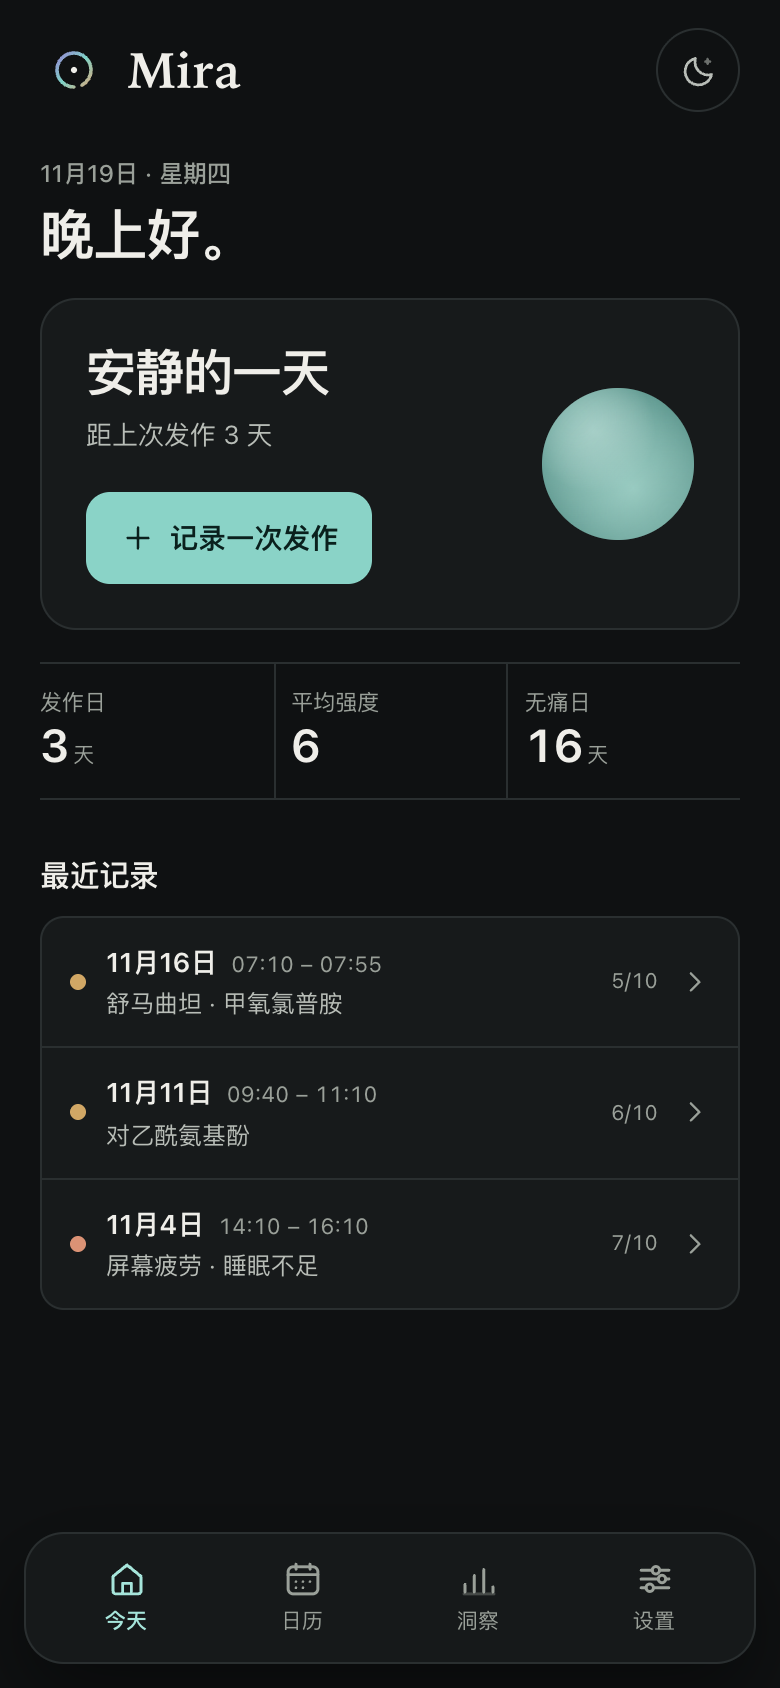
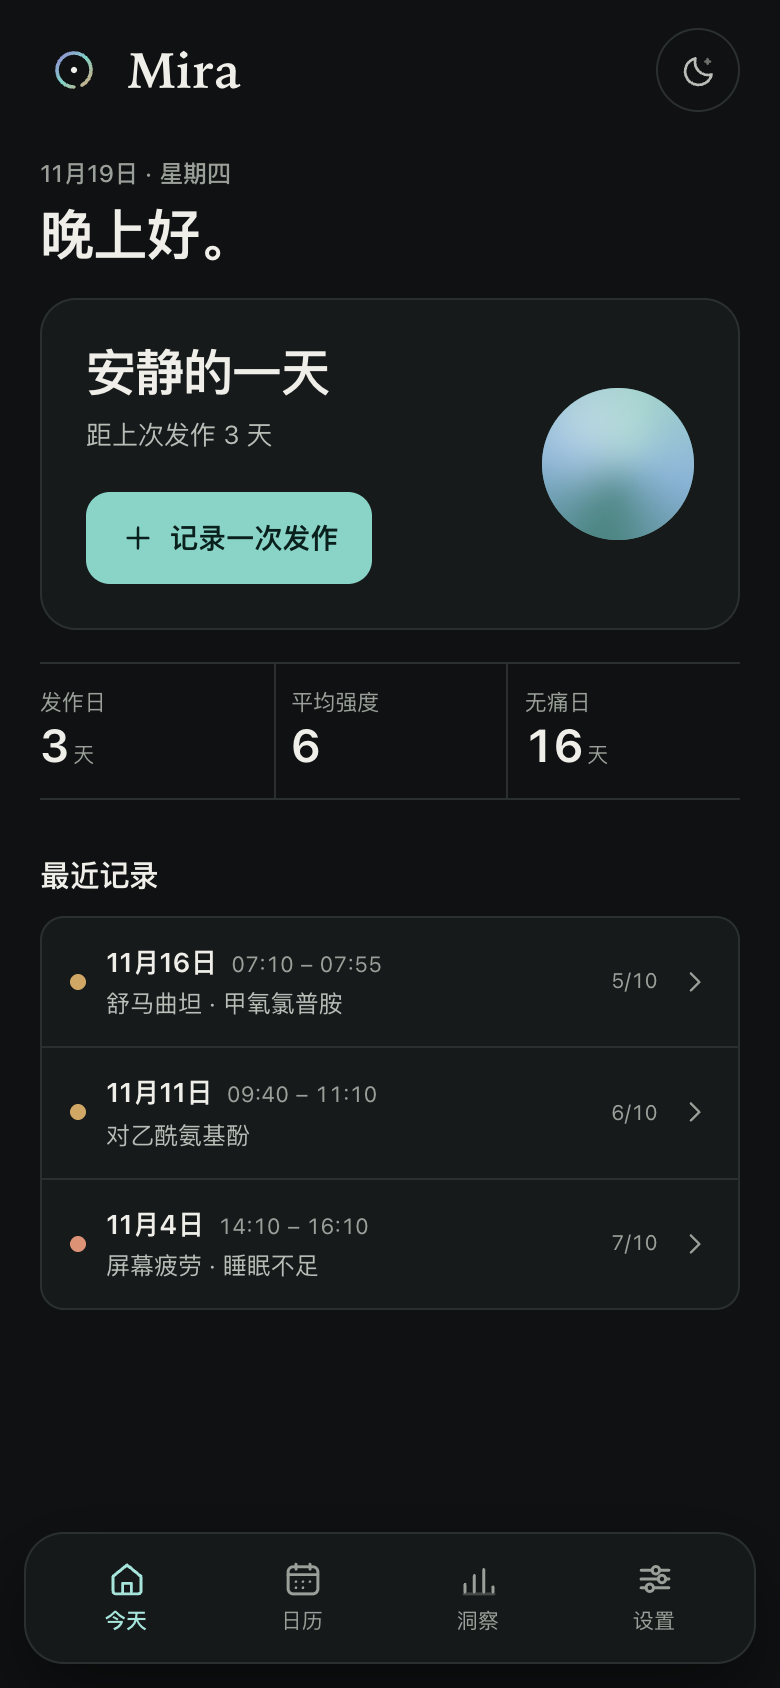
fix: make the daily orb gradient visibly alive
- replace the subtle two-blob drift with a rotating conic aurora gradient
- add a slower moving highlight for depth
- keep the same 76px footprint and severity palette
- stop all orb motion for reduced-motion and quiet mode
- refresh screenshots and orb animation assertions

Changed region(s): [[0.6769, 0.2156, 0.8923, 0.3389]]

diff --git a/src/styles.css b/src/styles.css
@@ -636,46 +636,52 @@ svg {
   overflow: hidden;
   isolation: isolate;
   background:
-    radial-gradient(circle at 34% 28%, rgba(255, 255, 255, 0.45), transparent 42%),
-    radial-gradient(circle at 60% 66%, var(--orb-a), var(--orb-b) 76%);
+    radial-gradient(circle at 50% 62%, var(--orb-a), var(--orb-b) 78%);
 }
 .orb::before,
 .orb::after {
   content: '';
   position: absolute;
-  inset: -24%;
   border-radius: 50%;
   pointer-events: none;
-  filter: blur(11px);
 }
 .orb::before {
-  background: radial-gradient(circle at 36% 32%, var(--orb-a), transparent 58%);
-  opacity: 0.7;
-  animation: orb-drift-a 18s ease-in-out infinite alternate;
+  inset: -26%;
+  background: conic-gradient(
+    from 0deg,
+    var(--orb-a),
+    var(--orb-c) 24%,
+    var(--orb-b) 48%,
+    var(--orb-c) 72%,
+    var(--orb-a)
+  );
+  filter: blur(8px);
+  opacity: 0.95;
+  animation: orb-spin 16s linear infinite;
+  will-change: transform;
 }
 .orb::after {
-  background: radial-gradient(circle at 64% 66%, color-mix(in srgb, var(--orb-a) 55%, var(--orb-b)), transparent 56%);
+  inset: -8%;
+  background: radial-gradient(circle at 36% 30%, rgba(255, 255, 255, 0.55), transparent 46%);
+  filter: blur(5px);
   opacity: 0.6;
-  animation: orb-drift-b 24s ease-in-out infinite alternate;
+  animation: orb-highlight 9s ease-in-out infinite alternate;
 }
 .orb.is-calm {
   --orb-a: #a9d9cf;
   --orb-b: #427e76;
 }
-@keyframes orb-drift-a {
-  from {
-    transform: translate(-5%, -3%) scale(1.02);
-  }
+@keyframes orb-spin {
   to {
-    transform: translate(8%, 6%) scale(1.16);
+    transform: rotate(1turn);
   }
 }
-@keyframes orb-drift-b {
+@keyframes orb-highlight {
   from {
-    transform: translate(7%, 4%) scale(1.12);
+    transform: translate(-4%, -3%) scale(1);
   }
   to {
-    transform: translate(-6%, -7%) scale(0.98);
+    transform: translate(7%, 5%) scale(1.2);
   }
 }
 

diff --git a/src/views/TodayView.tsx b/src/views/TodayView.tsx
@@ -30,19 +30,19 @@ interface TodayViewProps {
 
 function orbColors(severity: number | null, quiet: boolean): string {
   if (quiet) {
-    if (severity === null) return '--orb-a:#d6b28e;--orb-b:#7a5638';
+    if (severity === null) return '--orb-a:#d6b28e;--orb-b:#7a5638;--orb-c:#b49a7f';
     const bucket = severityBucket(severity);
-    if (bucket === 'mild') return '--orb-a:#d0b08a;--orb-b:#86623f';
-    if (bucket === 'moderate') return '--orb-a:#dbab74;--orb-b:#91643b';
-    if (bucket === 'severe') return '--orb-a:#c98f73;--orb-b:#7b4633';
-    return '--orb-a:#c48a7d;--orb-b:#6c3b33';
+    if (bucket === 'mild') return '--orb-a:#d0b08a;--orb-b:#86623f;--orb-c:#b9a082';
+    if (bucket === 'moderate') return '--orb-a:#dbab74;--orb-b:#91643b;--orb-c:#c8a678';
+    if (bucket === 'severe') return '--orb-a:#c98f73;--orb-b:#7b4633;--orb-c:#b99279';
+    return '--orb-a:#c48a7d;--orb-b:#6c3b33;--orb-c:#b28a80';
   }
-  if (severity === null) return '--orb-a:#a9d9cf;--orb-b:#427e76';
+  if (severity === null) return '--orb-a:#a9d9cf;--orb-b:#427e76;--orb-c:#8fb6df';
   const bucket = severityBucket(severity);
-  if (bucket === 'mild') return '--orb-a:#b7ddcb;--orb-b:#568d77';
-  if (bucket === 'moderate') return '--orb-a:#e4c88d;--orb-b:#a17b45';
-  if (bucket === 'severe') return '--orb-a:#e3aa8c;--orb-b:#a95c4c';
-  return '--orb-a:#d99aa6;--orb-b:#8e3d50';
+  if (bucket === 'mild') return '--orb-a:#b7ddcb;--orb-b:#568d77;--orb-c:#96bdd9';
+  if (bucket === 'moderate') return '--orb-a:#e4c88d;--orb-b:#a17b45;--orb-c:#d2a0b4';
+  if (bucket === 'severe') return '--orb-a:#e3aa8c;--orb-b:#a95c4c;--orb-c:#cbb878';
+  return '--orb-a:#d99aa6;--orb-b:#8e3d50;--orb-c:#c3a0de';
 }
 
 export function TodayView({

diff --git a/README.md b/README.md
@@ -103,7 +103,7 @@ Mira 的视觉隐喻是「极光下的一只眼睛」：品牌符号是一个留
 
 - **色彩**：暖纸色 / 深墨色为底，只有一个深青强调色；强度用鼠尾草绿 → 琥珀 → 珊瑚 → 玫瑰的连续谱表达，且只出现在数据元素上。
 - **字体**：界面、数字与洞察句统一使用系统无衬线；只有品牌字标「Mira」保留衬线，减少字体层次。
-- **标志性交互**：Aura Dial 强度盘、缓慢流动的 76px 状态光球、进行中计时、静息模式。
+- **标志性交互**：Aura Dial 强度盘、缓慢旋转极光渐变的 76px 状态光球、进行中计时、静息模式。
 - **收敛**：没有背景渐变、颗粒、装饰性图标、全大写小标题或重复的卡片；统计从 4 张卡 + 3 张卡收敛为 1 个指标面板 + 1 个标签页面板。
 - **克制**：没有社交、排行榜、连续打卡惩罚、推送催促或广告。连续无痛天数只是安静地显示，不制造压力。
 

diff --git a/docs/design.md b/docs/design.md
@@ -49,7 +49,7 @@ Mira 来自「注视」的意象：看清自己的节律，而不是被头痛推
 
 <p align="center"><img src="screenshots/02-today.png" width="260" alt="今日状态" /></p>
 
-- 76px，内部两团柔光以 18s / 24s 的缓慢节奏漂移，形成持续但不刺眼的渐变。
+- 76px，内部极光渐变以 16s 缓慢旋转，叠加 9s 漂移高光，形成持续但不刺眼的色彩流动。
 - 去掉外环、缩放呼吸与光晕；`prefers-reduced-motion` 和静息模式下完全停止。
 - 它是当日最高强度的单色映射：安静时青绿，强度升高时转向琥珀、珊瑚、玫瑰。
 - 不是数据主角，只是一眼可读的状态点；具体数字仍在标题与统计中。
